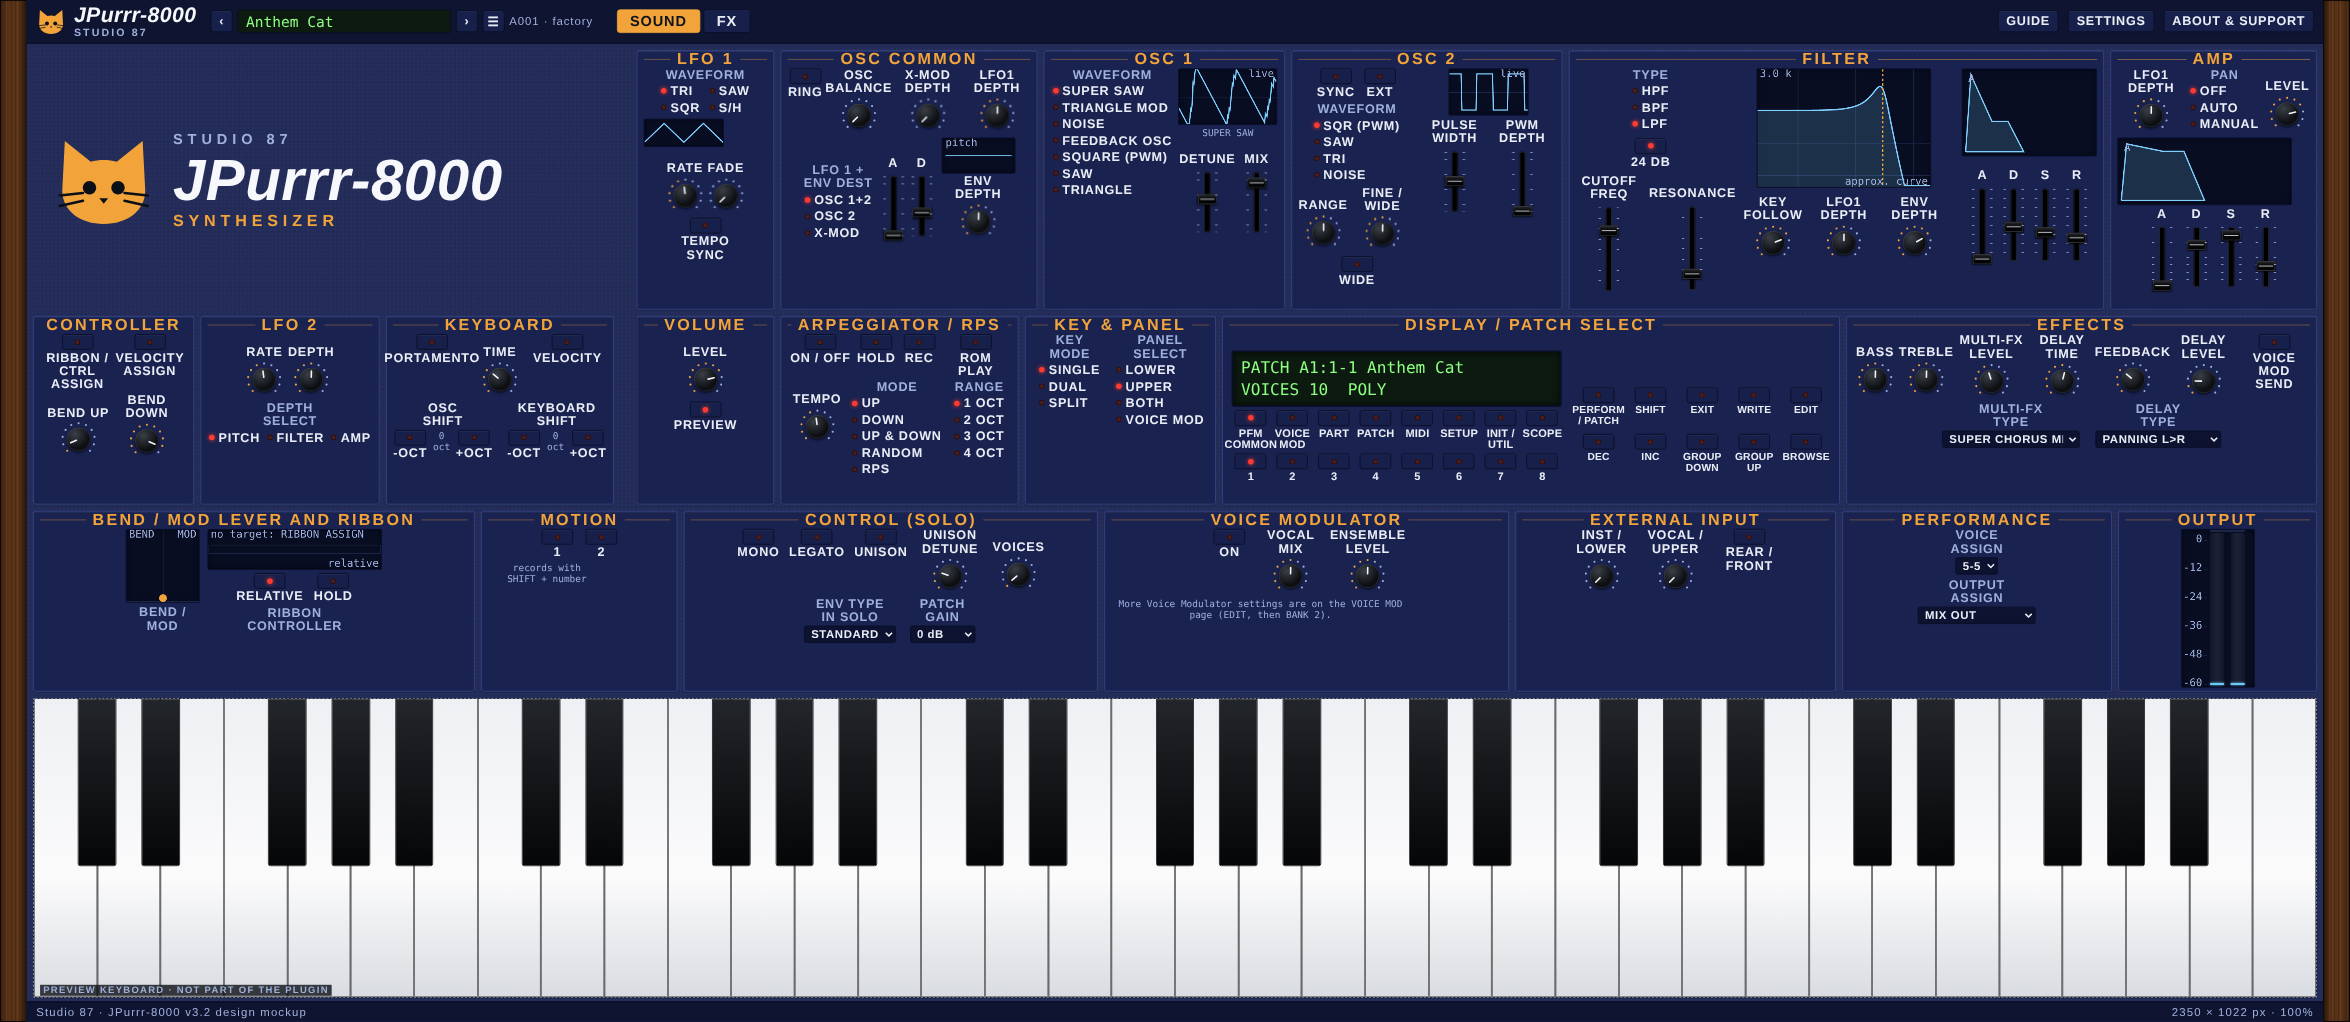
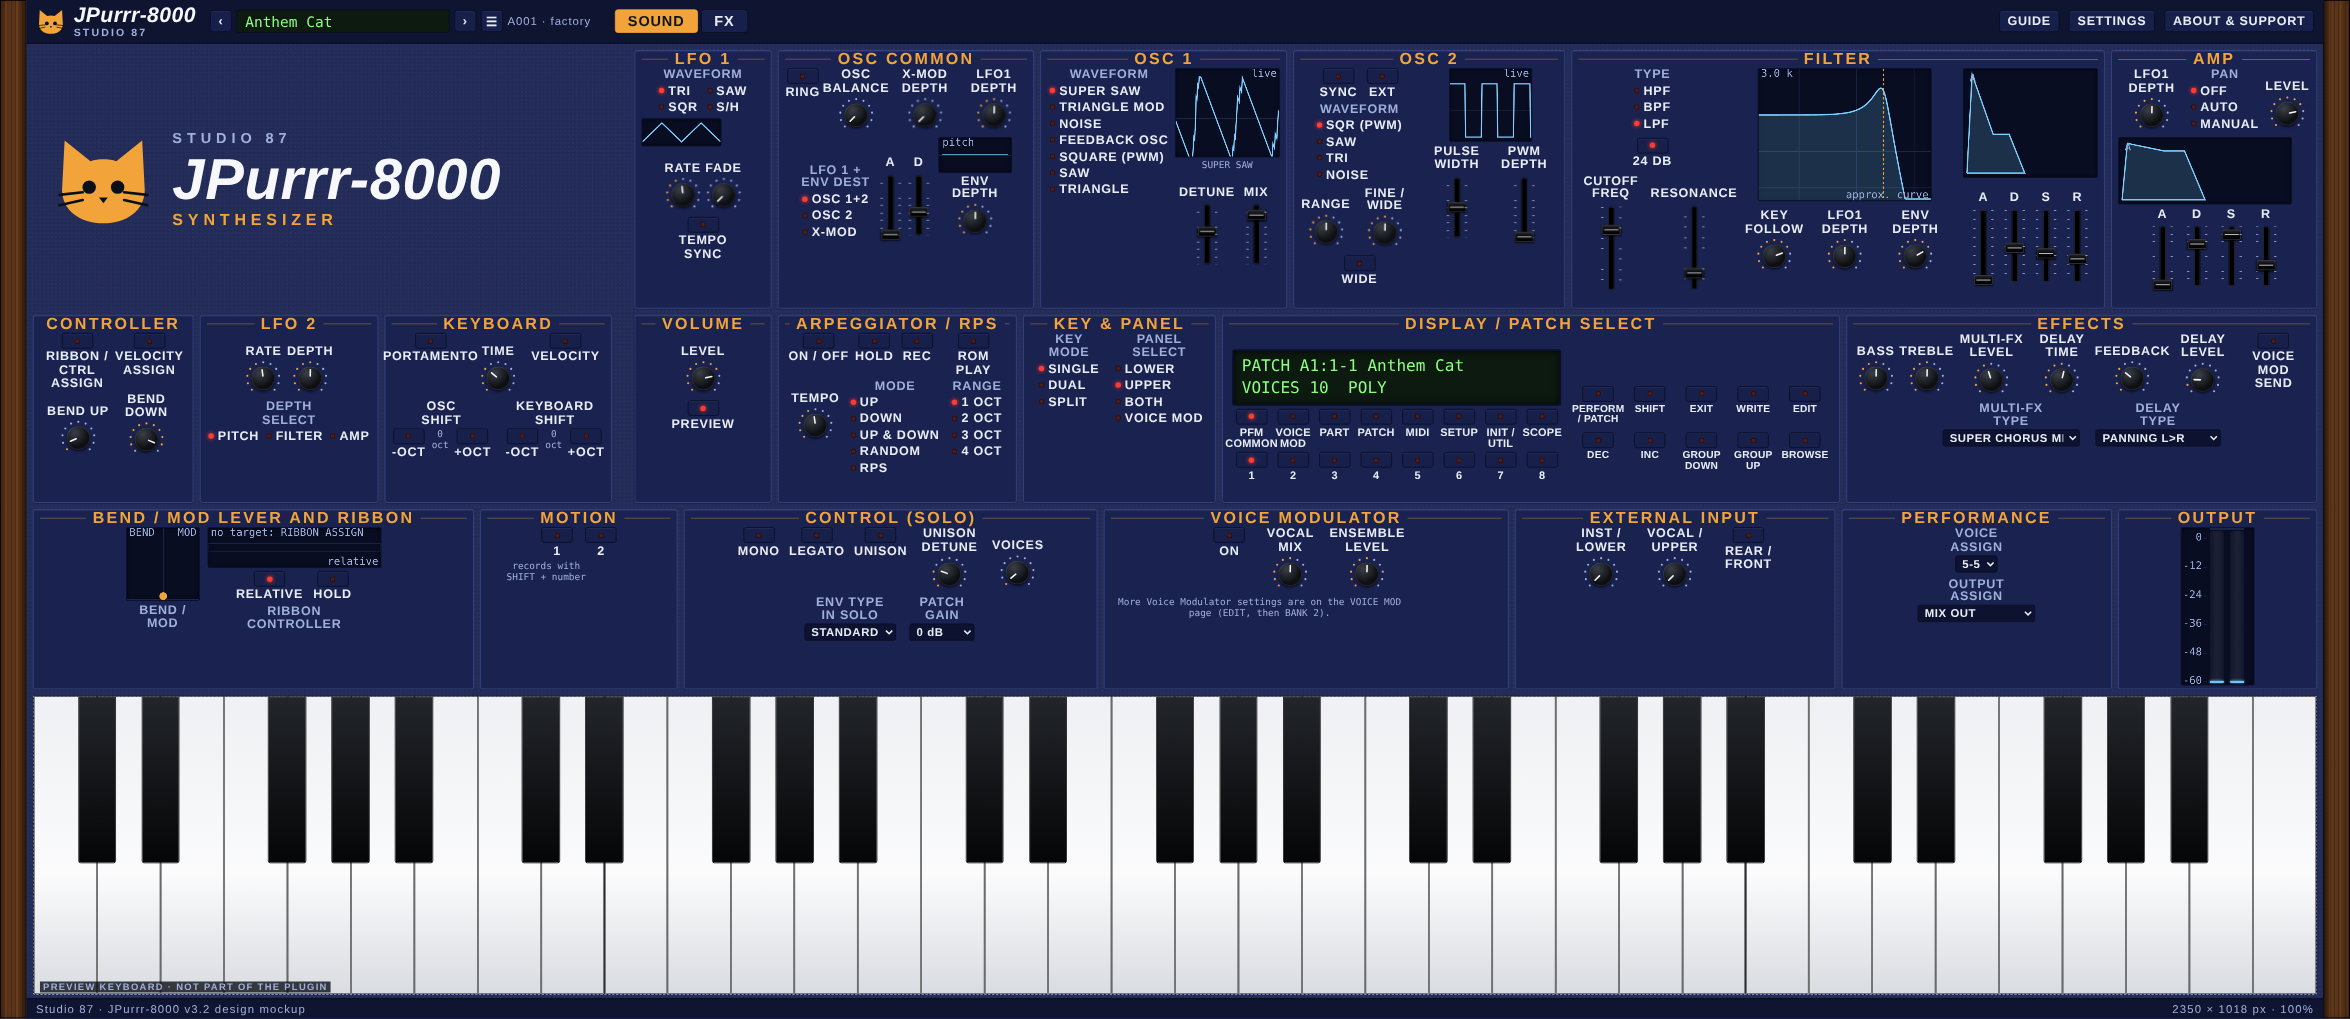
Mockup: taller OSC and FILTER displays, waveforms stay clear of the live label
Claude-Session: https://claude.ai/code/session_016ABbaoXQJWEN3dSNoh5BjT

diff --git a/docs/mockups/JPurrr-8000-mockup-v3.2.html b/docs/mockups/JPurrr-8000-mockup-v3.2.html
@@ -176,7 +176,7 @@ canvas.cv#cv_pad,canvas.cv#cv_rib{cursor:crosshair;touch-action:none}
 <script>
 (()=>{
 'use strict';
-const W=2990,H=1300;
+const W=3000,H=1300;
 const $=(s,r=document)=>r.querySelector(s), $$=(s,r=document)=>[...r.querySelectorAll(s)];
 const esc=s=>String(s).replace(/&/g,'&amp;').replace(/"/g,'&quot;').replace(/</g,'&lt;');
 const clamp=(v,a,b)=>Math.min(b,Math.max(a,v));
@@ -288,18 +288,18 @@ const com=sec('OSC COMMON',310,330,
  `<div class="row" style="gap:8px;align-items:flex-end">${O('od','LFO 1 + ENV DEST',['OSC 1+2','OSC 2','X-MOD'],0,'Where LFO 1 and the pitch envelope act: both oscillators, OSC 2 only, or the cross modulation depth.')}<div class="row" style="gap:2px">${SL('pa','A',0,127,0,'Pitch envelope attack time.')}${SL('pdd','D',0,127,50,'Pitch envelope decay time.')}</div><div class="col" style="gap:2px">${CV('cv_pe',92,44)}${K('pd','ENV DEPTH',-64,63,0,'How far the pitch envelope bends the pitch. Negative values start high and fall.')}</div></div>`);
 const osc1=sec('OSC 1',256,330,
  `<div class="row" style="gap:6px;align-items:flex-start"><div id="o1opts">${O('o1w','WAVEFORM',O1W,0,'OSC 1 waveform. SUPER SAW is the 7 saw stack. FEEDBACK OSC is mono only: it forces Mono or Legato and cannot be used with Unison.')}</div>
-  <div class="col" style="gap:3px">${CV('cv_o1',124,70)}<div class="note" id="o1info"></div><div class="row" style="gap:2px">${SL('o1c1','CTRL 1',0,127,70,'CONTROL 1 of OSC 1. For SUPER SAW it spreads the six outer saws away from the centre.')}${SL('o1c2','CTRL 2',0,127,105,'CONTROL 2 of OSC 1. For SUPER SAW it sets how loud the outer saws are against the centre saw.')}</div></div></div>`);
+  <div class="col" style="gap:3px">${CV('cv_o1',132,112)}<div class="note" id="o1info"></div><div class="row" style="gap:2px">${SL('o1c1','CTRL 1',0,127,70,'CONTROL 1 of OSC 1. For SUPER SAW it spreads the six outer saws away from the centre.')}${SL('o1c2','CTRL 2',0,127,105,'CONTROL 2 of OSC 1. For SUPER SAW it sets how loud the outer saws are against the centre saw.')}</div></div></div>`);
 const osc2=sec('OSC 2',254,330,
  `<div class="cols"><div class="col" style="gap:5px"><div class="row" style="gap:10px">${T('sync','SYNC',0,'Hard sync: OSC 2 restarts with OSC 1. Not available with NOISE on OSC 2.')}${T('o2ext','EXT',0,'External input as the OSC 2 source (External Input synthesis).')}</div>
   ${O('o2w','WAVEFORM',['SQR (PWM)','SAW','TRI','NOISE'],0,'OSC 2 waveform. NOISE is new on the JP-8080.')}
   <div class="row" style="gap:2px">${K('o2r','RANGE',-24,24,0,'OSC 2 pitch in semitones against OSC 1 (-24 to +24).',{fmt:v=>sg(v)+' st'})}${K('o2f','FINE / WIDE',-64,63,0,'OSC 2 fine tune, about -50 to +50 cent. With WIDE on it moves in whole octaves.',{fmt:v=>sg(Math.round(v*50/64))+' ct'})}</div>
   ${T('o2wide','WIDE',0,'Wide: range and fine move OSC 2 in whole octaves, from -4 to +4.')}</div>
-  <div class="col">${CV('cv_o2',100,58)}<div class="row" style="gap:2px">${SL('o2c1','PULSE WIDTH',0,127,64,'CONTROL 1 of OSC 2. For SQR it is the pulse width.')}${SL('o2c2','PWM DEPTH',0,127,0,'CONTROL 2 of OSC 2. For SQR it is how far LFO 1 moves the pulse width.')}</div></div></div>`);
+  <div class="col">${CV('cv_o2',104,92)}<div class="row" style="gap:2px">${SL('o2c1','PULSE WIDTH',0,127,64,'CONTROL 1 of OSC 2. For SQR it is the pulse width.')}${SL('o2c2','PWM DEPTH',0,127,0,'CONTROL 2 of OSC 2. For SQR it is how far LFO 1 moves the pulse width.')}</div></div></div>`);
 const flt=sec('FILTER',560,330,
  `<div class="cols" style="gap:18px;align-items:flex-start;justify-content:space-between"><div class="col" style="gap:8px">${O('ft','TYPE',['HPF','BPF','LPF'],2,'Filter type: high pass, band pass or low pass.')}${T('f24','24 dB',1,'Filter slope: lit is 24 dB per octave, dark is 12 dB per octave.')}
    <div class="row" style="gap:22px">${SL('fc','CUTOFF FREQ',0,127,92,'Filter cutoff frequency.',{h:118})}${SL('fr','RESONANCE',0,127,24,'Resonance. At the top the filter rings on its own and gives a sine tone.',{h:118})}</div></div>
-  <div class="col" style="gap:10px">${CV('cv_f',220,150)}<div class="row" style="gap:6px">${K('fk','KEY FOLLOW',-64,63,32,'How much the cutoff follows the key. +32 keeps the brightness the same over the keyboard.')}${K('fl','LFO1 DEPTH',-64,63,0,'How much LFO 1 moves the cutoff.')}${K('fe','ENV DEPTH',-64,63,28,'How much the filter envelope moves the cutoff. Negative values invert it.')}</div></div>
-  <div class="col" style="gap:10px">${CV('cv_fe',170,110)}<div class="row" style="gap:6px;margin-top:6px">${SL('fea','A',0,127,2,'Filter envelope attack time.',{h:104})}${SL('fed','D',0,127,60,'Filter envelope decay time.',{h:104})}${SL('fes','S',0,127,50,'Filter envelope sustain level.',{h:104})}${SL('fer','R',0,127,40,'Filter envelope release time.',{h:104})}</div></div></div>`);
+  <div class="col" style="gap:10px">${CV('cv_f',220,168)}<div class="row" style="gap:6px">${K('fk','KEY FOLLOW',-64,63,32,'How much the cutoff follows the key. +32 keeps the brightness the same over the keyboard.')}${K('fl','LFO1 DEPTH',-64,63,0,'How much LFO 1 moves the cutoff.')}${K('fe','ENV DEPTH',-64,63,28,'How much the filter envelope moves the cutoff. Negative values invert it.')}</div></div>
+  <div class="col" style="gap:10px">${CV('cv_fe',170,138)}<div class="row" style="gap:6px;margin-top:6px">${SL('fea','A',0,127,2,'Filter envelope attack time.',{h:104})}${SL('fed','D',0,127,60,'Filter envelope decay time.',{h:104})}${SL('fes','S',0,127,50,'Filter envelope sustain level.',{h:104})}${SL('fer','R',0,127,40,'Filter envelope release time.',{h:104})}</div></div></div>`);
 const amp=sec('AMP',226,330,
  `<div class="row" style="gap:6px">${K('al','LFO1 DEPTH',-64,63,0,'How much LFO 1 moves the volume (tremolo) or, in Manual pan, the stereo position.')}${O('ap','PAN',['OFF','AUTO','MANUAL'],0,'Pan: OFF is centre, AUTO sweeps with LFO 1, MANUAL uses the LFO 1 depth knob as position.')}${K('av','LEVEL',0,127,100,'Amp level of the patch.')}</div>`+
  CV('cv_ae',220,84)+
@@ -548,7 +548,7 @@ function o2Wave(wv,ph,t,pwm){
  if(wv===0){const d=.1+P.o2c1.v/127*.8+Math.sin(t*6)*P.o2c2.v/127*.3;return fr_(ph)<clamp(d,.05,.95)?1:-1;}
  if(wv===1)return sawW(ph);if(wv===2)return triW(ph);return nz[Math.floor(fr_(ph*1.7+t*3)*63)];}
 let scr=0,scrLast=0;
-function waveView(x,w,h,fn){const t=performance.now()/1000*.35;const mid=h/2,amp=h/2-6;x.strokeStyle=CC.grid;x.lineWidth=1;x.beginPath();x.moveTo(0,mid+.5);x.lineTo(w,mid+.5);x.stroke();
+function waveView(x,w,h,fn){const t=performance.now()/1000*.35;const mid=(h+14)/2,amp=(h-14)/2-5;x.strokeStyle=CC.grid;x.lineWidth=1;x.beginPath();x.moveTo(0,mid+.5);x.lineTo(w,mid+.5);x.stroke();
  x.strokeStyle=CC.line;x.lineWidth=1.6;x.beginPath();const N=Math.floor(w);for(let i=0;i<=N;i++){const ph=i/w*2.5+scr;const y=fn(ph,i,t);const py=mid-clamp(y,-1.2,1.2)*amp;if(i===0)x.moveTo(i,py);else x.lineTo(i,py);}x.stroke();
  x.fillStyle=CC.txt;x.font='13.5px "JetBrains Mono",monospace';x.textAlign='right';x.fillText('live',w-3,10);}
 function shapeView(x,w,h,fn,pulse,pwm){const mid=(h-16)/2+4,amp=(h-26)/2;x.strokeStyle=CC.line;x.fillStyle=CC.fill;x.lineWidth=1.6;
